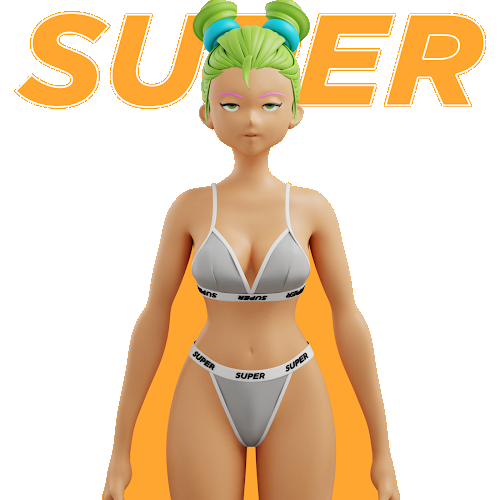
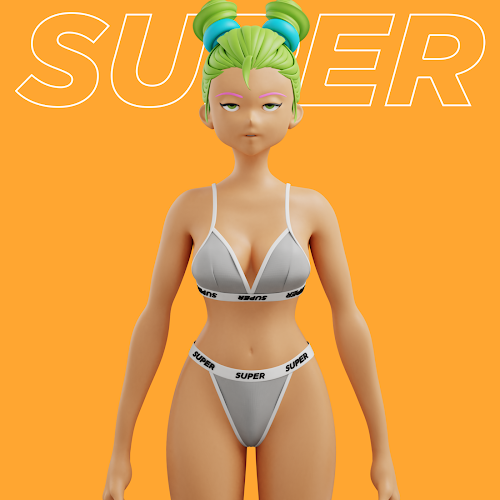
v57: Replace all nobg cutouts with true full-background metadata artwork and purge SW cache

diff --git a/pwa/sw.js b/pwa/sw.js
@@ -1,4 +1,4 @@
-const CACHE_NAME = 'swooz-dex-v56';
+const CACHE_NAME = 'swooz-dex-v57';
 const ASSETS = [
   './',
   'index.html',
@@ -8,19 +8,19 @@ const ASSETS = [
   'icon-192.png',
   'icon-512.png',
   'icon.svg',
-  'nft-media/nobg/if_1506.gif',
-  'nft-media/nobg/if_1286.gif',
-  'nft-media/nobg/if_140.gif',
-  'nft-media/nobg/if_42.gif',
-  'nft-media/nobg/beast_2313_full.png',
-  'nft-media/nobg/beast_2313_pfp.png',
-  'nft-media/nobg/clonex_9143.png',
-  'nft-media/nobg/minisupers_6915.png',
-  'nft-media/nobg/the_walk_1.gif',
-  'nft-media/nobg/supers_84.png',
-  'nft-media/nobg/supers_144.png',
-  'nft-media/nobg/enso_146.png',
-  'nft-media/nobg/enso_190.png'
+  'nft-media/if_1506.gif',
+  'nft-media/if_1286.gif',
+  'nft-media/if_140.gif',
+  'nft-media/if_42.gif',
+  'nft-media/beast_2313_full.png',
+  'nft-media/beast_2313_pfp.png',
+  'nft-media/clonex_9143.png',
+  'nft-media/minisupers_6915.png',
+  'nft-media/the_walk_1.gif',
+  'nft-media/supers_84.png',
+  'nft-media/supers_144.png',
+  'nft-media/enso_146.png',
+  'nft-media/enso_190.png'
 ];
 
 self.addEventListener('install', event => {
@@ -38,13 +38,13 @@ self.addEventListener('activate', event => {
 });
 
 self.addEventListener('fetch', event => {
-  // Always use Network-First with cache:'no-store' for HTML, JS, and JSON so GitHub Pages pushes show up immediately!
   if (
     event.request.mode === 'navigate' ||
     event.request.url.endsWith('.html') ||
     event.request.url.endsWith('/') ||
     event.request.url.includes('snapshot.json') ||
-    event.request.url.includes('/api/')
+    event.request.url.includes('/api/') ||
+    event.request.url.includes('nft-media/')
   ) {
     event.respondWith(
       fetch(event.request, { cache: 'no-store' })

diff --git a/sw.js b/sw.js
@@ -1,4 +1,4 @@
-const CACHE_NAME = 'swooz-dex-v56';
+const CACHE_NAME = 'swooz-dex-v57';
 const ASSETS = [
   './',
   'index.html',
@@ -8,19 +8,19 @@ const ASSETS = [
   'icon-192.png',
   'icon-512.png',
   'icon.svg',
-  'nft-media/nobg/if_1506.gif',
-  'nft-media/nobg/if_1286.gif',
-  'nft-media/nobg/if_140.gif',
-  'nft-media/nobg/if_42.gif',
-  'nft-media/nobg/beast_2313_full.png',
-  'nft-media/nobg/beast_2313_pfp.png',
-  'nft-media/nobg/clonex_9143.png',
-  'nft-media/nobg/minisupers_6915.png',
-  'nft-media/nobg/the_walk_1.gif',
-  'nft-media/nobg/supers_84.png',
-  'nft-media/nobg/supers_144.png',
-  'nft-media/nobg/enso_146.png',
-  'nft-media/nobg/enso_190.png'
+  'nft-media/if_1506.gif',
+  'nft-media/if_1286.gif',
+  'nft-media/if_140.gif',
+  'nft-media/if_42.gif',
+  'nft-media/beast_2313_full.png',
+  'nft-media/beast_2313_pfp.png',
+  'nft-media/clonex_9143.png',
+  'nft-media/minisupers_6915.png',
+  'nft-media/the_walk_1.gif',
+  'nft-media/supers_84.png',
+  'nft-media/supers_144.png',
+  'nft-media/enso_146.png',
+  'nft-media/enso_190.png'
 ];
 
 self.addEventListener('install', event => {
@@ -38,13 +38,13 @@ self.addEventListener('activate', event => {
 });
 
 self.addEventListener('fetch', event => {
-  // Always use Network-First with cache:'no-store' for HTML, JS, and JSON so GitHub Pages pushes show up immediately!
   if (
     event.request.mode === 'navigate' ||
     event.request.url.endsWith('.html') ||
     event.request.url.endsWith('/') ||
     event.request.url.includes('snapshot.json') ||
-    event.request.url.includes('/api/')
+    event.request.url.includes('/api/') ||
+    event.request.url.includes('nft-media/')
   ) {
     event.respondWith(
       fetch(event.request, { cache: 'no-store' })
